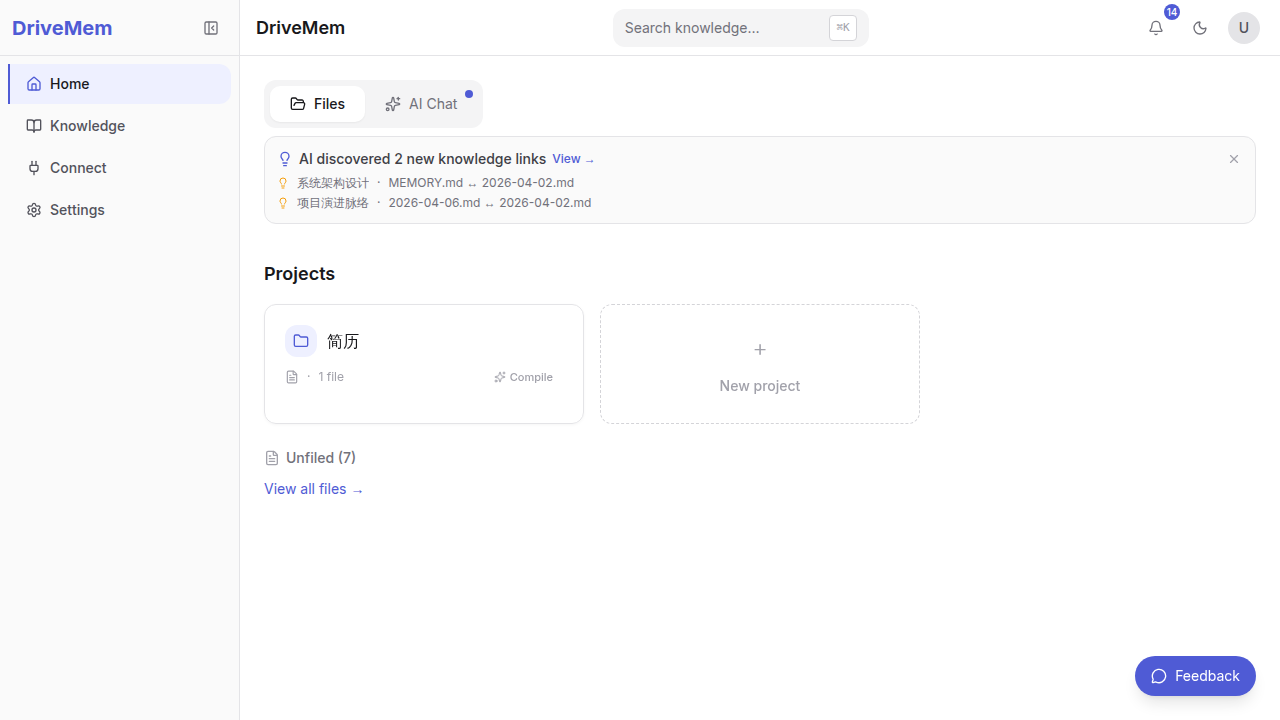
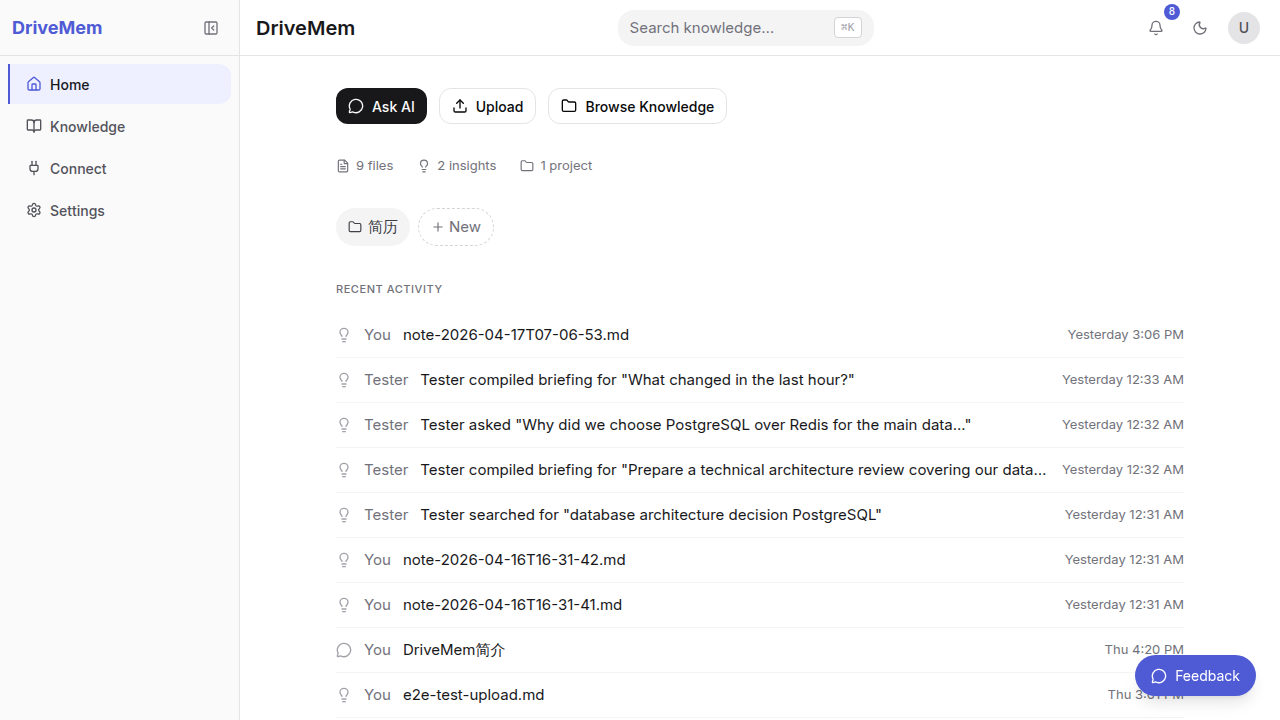
feat(landing): fresh real dashboard screenshot with live data

diff --git a/apps/api/src/routes/users.ts b/apps/api/src/routes/users.ts
@@ -1,6 +1,6 @@
 import { FastifyInstance } from 'fastify';
 import { z } from 'zod';
-import { eq, and, sql, isNotNull, isNull, desc, inArray } from 'drizzle-orm';
+import { eq, and, sql, isNotNull, isNull, desc, inArray, gte } from 'drizzle-orm';
 import * as schema from '../db/schema.js';
 import { db } from '../db/index.js';
 import { users, files, knowledgeLinks } from '../db/schema.js';
